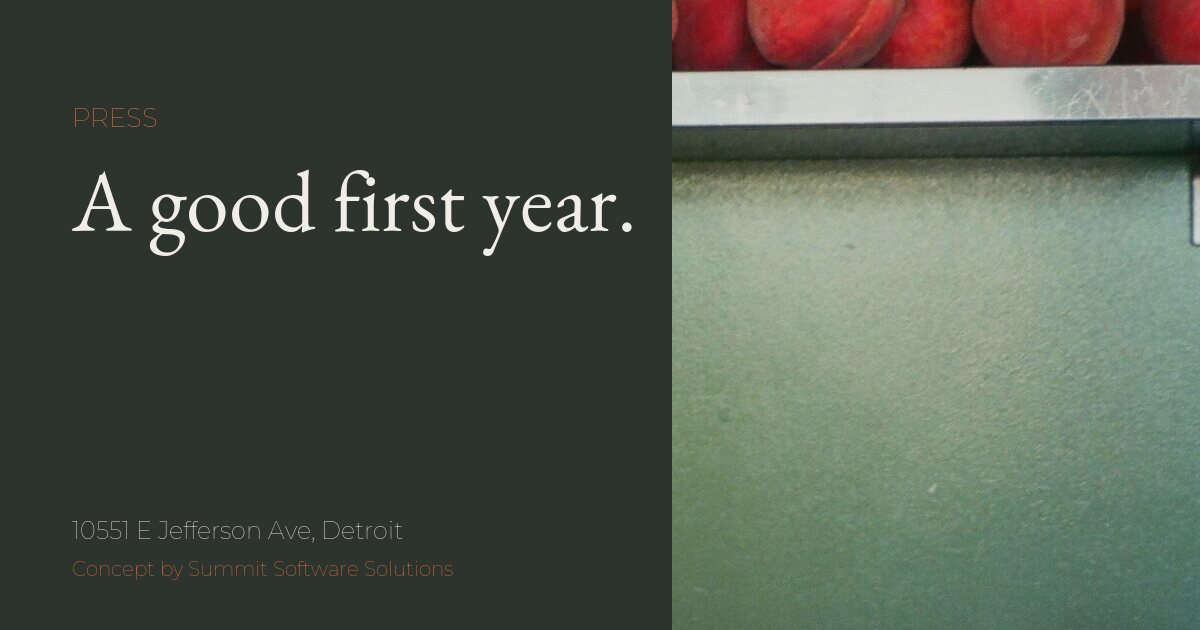
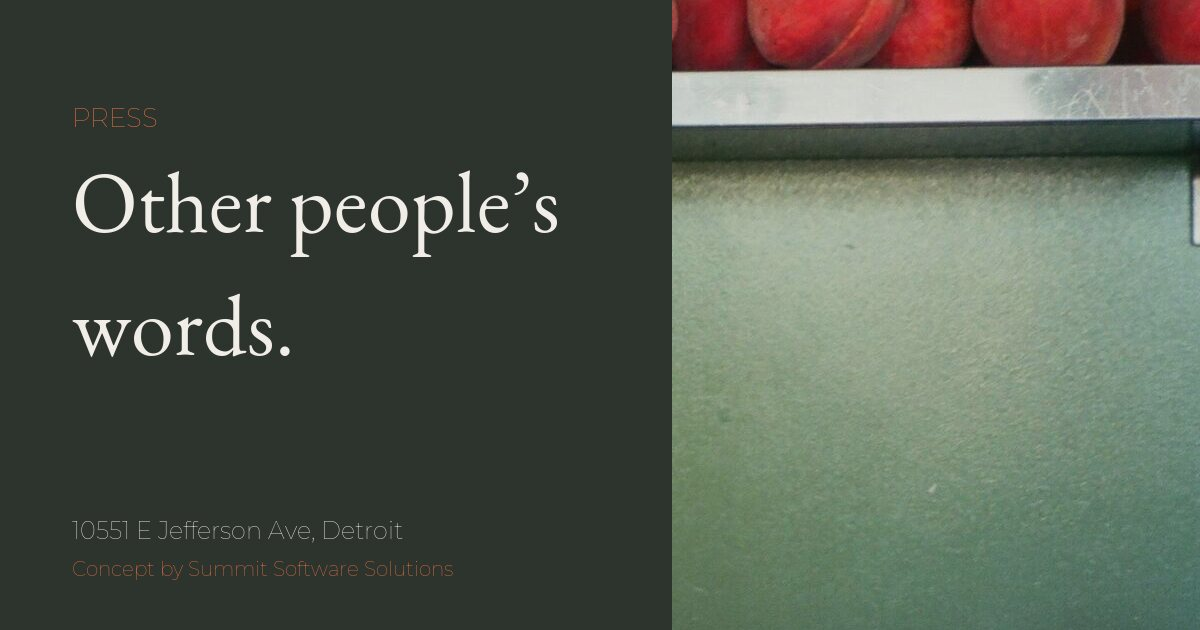
content: replace the time-bound press headline with a durable one

Changed region(s): [[0.0617, 0.2714, 0.5242, 0.4222], [0.0617, 0.4524, 0.2467, 0.573]]

diff --git a/press.html b/press.html
@@ -10,7 +10,7 @@
 <meta property="og:type" content="website">
 <meta property="og:site_name" content="Roses">
 <meta property="og:title" content="Press - Roses">
-<meta property="og:description" content="Restaurant of the Year, a New York Times listing, three stars, and Best New Restaurants, all inside twelve months.">
+<meta property="og:description" content="Restaurant of the Year, a New York Times listing, three stars, and Best New Restaurants, all within twelve months of reopening.">
 <meta property="og:url" content="https://ryankolean.github.io/roses/press.html">
 <meta property="og:image" content="https://ryankolean.github.io/roses/assets/img/og-press.jpg">
 <meta property="og:image:width" content="1200">
@@ -57,8 +57,8 @@
   <section class="section">
     <div class="container">
       <p class="label">Press</p>
-      <h1>A good first year.</h1>
-      <p class="lede" style="max-width:40ch">Four awards between February and September 2026, in the twelve months after reopening.</p>
+      <h1>Other people’s words.</h1>
+      <p class="lede" style="max-width:40ch">Awards and reviews since the room reopened in 2025, with links to the originals.</p>
     </div>
   </section>
 

diff --git a/index.html b/index.html
@@ -114,7 +114,7 @@
 
   <section class="section section--pale section--tight">
     <div class="container">
-      <p class="label">Twelve months back open</p>
+      <p class="label">Awards and reviews</p>
       <ul class="awards">
         <li><span class="outlet">Detroit Free Press</span><span class="what">2026 Restaurant of the Year</span></li>
         <li><span class="outlet">The New York Times</span><span class="what">50 favorite restaurants in America</span></li>

diff --git a/tools/build_og.py b/tools/build_og.py
@@ -30,7 +30,7 @@ CARDS = [
     ("og-default", "room-counter.jpg", "Detroit", "Witamy."),
     ("og-menu", "table-nachos.jpg", "The menu", "Written after\nthe delivery."),
     ("og-story", "kitchen.jpg", "Story", "My third business\nin this space."),
-    ("og-press", "produce-peaches.jpg", "Press", "A good first year."),
+    ("og-press", "produce-peaches.jpg", "Press", "Other people’s\nwords."),
 ]
 
 
